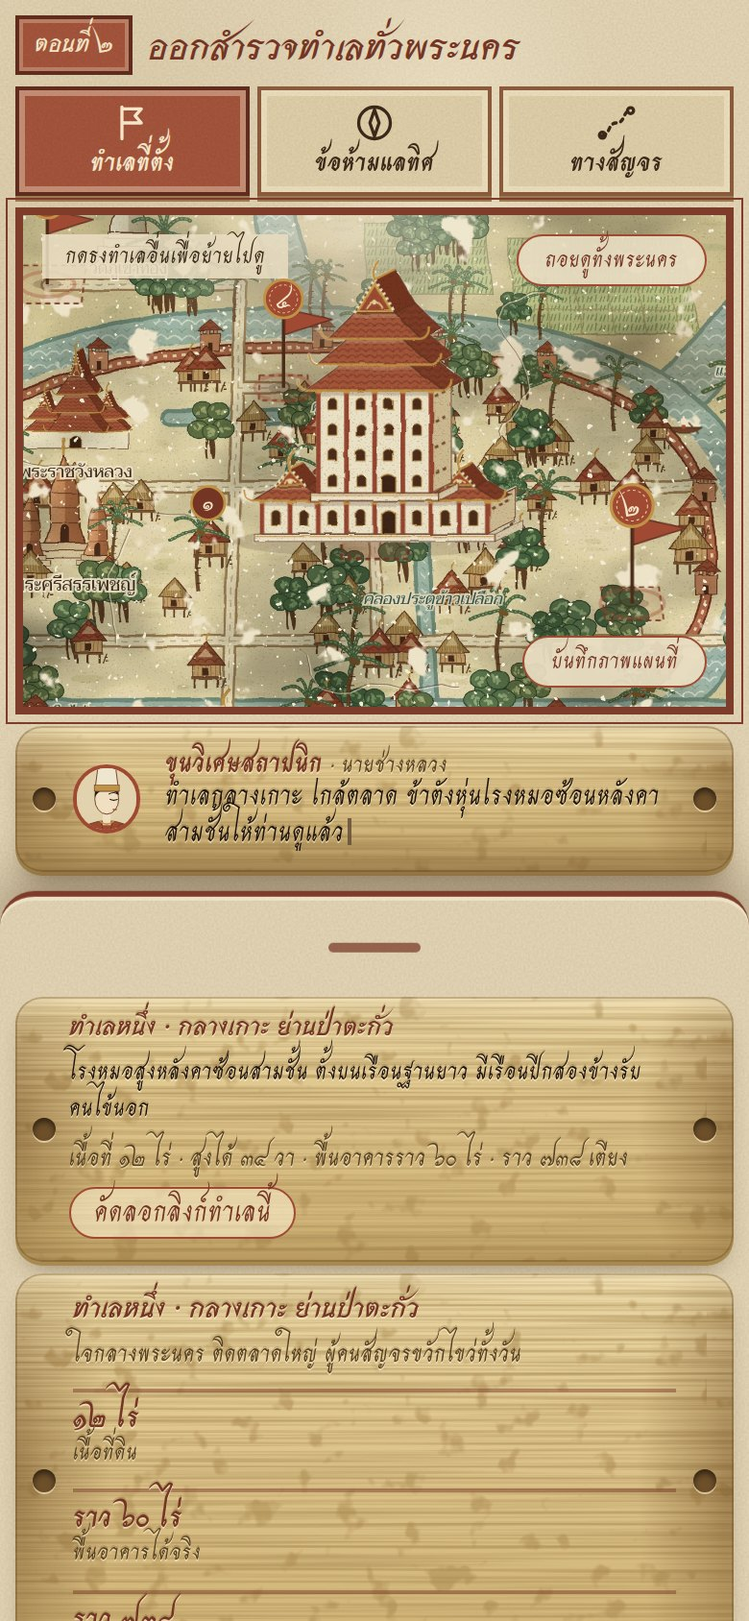
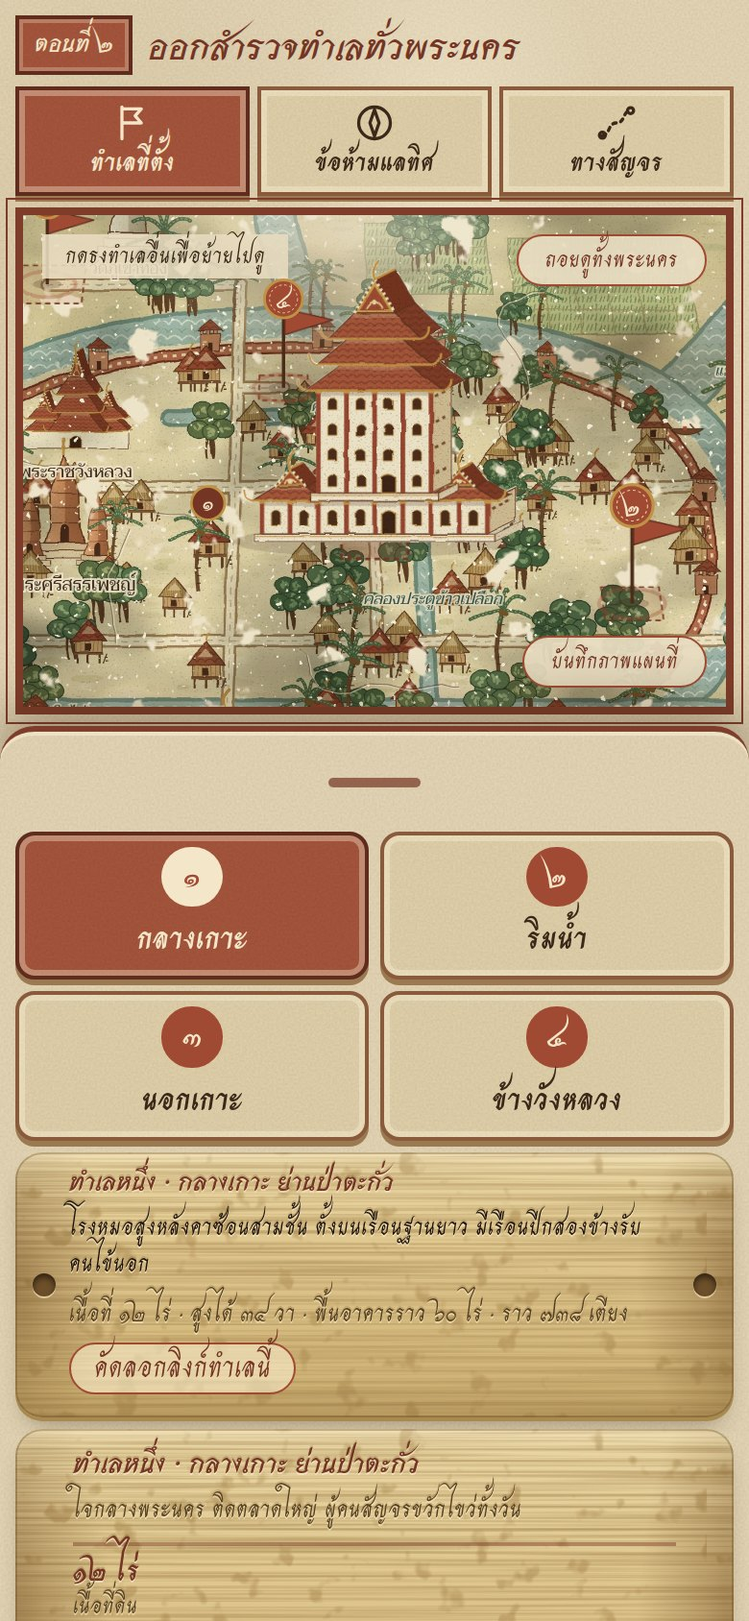
feat(p4): step 1 complete — phone peek sheet, score bars, layout test at 7 sizes
- closed sheet = four site buttons filling the space under the narrator; tap = flag tap
- half sheet ends under the map, so the whole map and the selected site stay visible
- comparison table: score bar per site, top-scoring site(s) highlighted; fits at 1366x768
- deep link keeps the map section aligned while the page settles
- Playwright layout test at 1920x1080, 1366x768, 1280x720, 768x1024, 390x844, 375x667, 844x390

Claude-Session: https://claude.ai/code/session_017J4fxwPJmxPxBtpiPuimFk

diff --git a/tests/layout.spec.ts b/tests/layout.spec.ts
@@ -1,0 +1,150 @@
+import { test, expect, type Page } from '@playwright/test'
+
+const SIZES: [number, number][] = [[1920, 1080], [1366, 768], [1280, 720], [768, 1024], [390, 844], [375, 667], [844, 390]]
+const DESIGNATED = '.sheet-body, .pages, .page, .scroll, .diag, #side'
+
+async function ready(page: Page) {
+  await expect(page.locator('#loading')).toBeHidden({ timeout: 30000 })
+  await page.waitForTimeout(600)
+}
+/** wait until smooth scrolling and snapping have stopped */
+async function settle(page: Page) {
+  let last = -1
+  for (let i = 0; i < 40; i++) {
+    const y = await page.evaluate(() => scrollY)
+    if (y === last) return
+    last = y
+    await page.waitForTimeout(200)
+  }
+}
+const toSection = async (page: Page, sel: string) => {
+  await page.evaluate(s => (document.querySelector(s) as HTMLElement).scrollIntoView({ behavior: 'instant' }), sel)
+  await settle(page)
+}
+const rect = (page: Page, sel: string) => page.locator(sel).first().evaluate(e => { const r = e.getBoundingClientRect(); return { top: r.top, left: r.left, right: r.right, bottom: r.bottom } })
+async function inside(page: Page, sel: string, label = sel) {
+  const r = await rect(page, sel), vw = page.viewportSize()!.width, vh = page.viewportSize()!.height
+  expect(r.top, `${label} top`).toBeGreaterThanOrEqual(-1)
+  expect(r.left, `${label} left`).toBeGreaterThanOrEqual(-1)
+  expect(r.right, `${label} right`).toBeLessThanOrEqual(vw + 1)
+  expect(r.bottom, `${label} bottom`).toBeLessThanOrEqual(vh + 1)
+}
+
+for (const [w, h] of SIZES) {
+  const phone = w < 900
+  const portrait = h > w
+  test.describe(`${w}×${h}`, () => {
+    test.use({ viewport: { width: w, height: h }, isMobile: phone, hasTouch: phone })
+
+    test('every section fits one screen; the map is fully visible; nothing scrolls except the designated panels', async ({ page }) => {
+      await page.goto('/'); await ready(page)
+
+      // section heights, no horizontal page scroll
+      const heights = await page.locator('.screen').evaluateAll(els => els.map(e => e.getBoundingClientRect().height))
+      expect(heights).toHaveLength(4)
+      for (const hh of heights) expect(hh).toBeLessThanOrEqual(h + 1)
+      expect(await page.evaluate(() => document.documentElement.scrollWidth <= document.documentElement.clientWidth)).toBe(true)
+
+      // hero
+      await toSection(page, '.hero')
+      await inside(page, '.hero-t'); await inside(page, '.hero .frame')
+
+      // chapter 1: the scene and both lines are on screen
+      await toSection(page, '.s1')
+      await inside(page, '.s1 .frame'); await inside(page, '.duo .leaf:first-child'); await inside(page, '.duo .leaf:last-child')
+
+      // chapter 2: tabs, the whole map and the narrator
+      await toSection(page, '#mapsec')
+      await inside(page, '.tabs'); await inside(page, '#mapbox'); await inside(page, '#narr')
+      await page.locator('.site[data-site="A"]').first().dispatchEvent('click')
+      await page.waitForTimeout(1500)
+      await inside(page, '#mapbox')
+      if (!portrait) await inside(page, '#cap') // the caption stays inside the map frame
+      if (!portrait) {
+        const [c, m] = await Promise.all([rect(page, '#cap'), rect(page, '#mapbox')])
+        expect(c.left).toBeGreaterThanOrEqual(m.left - 1); expect(c.right).toBeLessThanOrEqual(m.right + 1)
+        expect(c.top).toBeGreaterThanOrEqual(m.top - 1); expect(c.bottom).toBeLessThanOrEqual(m.bottom + 1)
+      }
+
+      // chapter 3: tabs/dots and the first page
+      await toSection(page, '.s3')
+      await inside(page, '.s3 .top'); await inside(page, '.page[data-page="0"] .leaf')
+      // on desktop-sized screens the whole comparison table fits without sideways scrolling
+      if (w >= 1280) expect(await page.locator('.page[data-page="0"] .scroll').evaluate(e => e.scrollWidth <= e.clientWidth + 1)).toBe(true)
+      for (const i of [1, 2, 3]) {
+        await page.evaluate(n => document.querySelectorAll<HTMLElement>('.page')[n].scrollIntoView({ behavior: 'instant', inline: 'start', block: 'nearest' }), i)
+        await page.waitForTimeout(150)
+        await inside(page, `.page[data-page="${i}"] .leaf`)
+      }
+
+      // nothing scrolls except the designated panels (the page itself scrolls vertically, section by section)
+      const rogue = await page.evaluate(sel => {
+        const bad: string[] = []
+        for (const e of Array.from(document.querySelectorAll<HTMLElement>('body *'))) {
+          if (e.closest(sel)) continue
+          const cs = getComputedStyle(e)
+          if (!/(auto|scroll)/.test(cs.overflowX + cs.overflowY)) continue
+          if (e.scrollHeight > e.clientHeight + 1 || e.scrollWidth > e.clientWidth + 1) bad.push(e.tagName + '.' + e.className)
+        }
+        return bad
+      }, DESIGNATED)
+      expect(rogue).toEqual([])
+
+      // no leaf spills over its own box (text is never cut off inside a leaf outside the scrolling panels)
+      const spill = await page.evaluate(sel => Array.from(document.querySelectorAll<HTMLElement>('.leaf')).filter(l => !l.closest(sel) && l.offsetParent !== null && (l.scrollHeight > l.clientHeight + 2 || l.scrollWidth > l.clientWidth + 2)).map(l => l.className + ':' + (l.textContent ?? '').slice(0, 20)), DESIGNATED)
+      expect(spill).toEqual([])
+    })
+
+    test('a deep link scrolls to the map and fits it on screen', async ({ page }) => {
+      await page.goto('/#site-A'); await ready(page); await settle(page)
+      await expect.poll(async () => Math.abs((await rect(page, '#mapsec')).top), { timeout: 8000 }).toBeLessThanOrEqual(2)
+      await inside(page, '#mapbox')
+      await expect(page.locator('#zoomOut')).toBeVisible()
+    })
+
+    if (portrait && phone) {
+      test('sheet: closed shows the four site buttons; half keeps the selected site visible above the sheet', async ({ page }) => {
+        await page.goto('/'); await ready(page); await toSection(page, '#mapsec')
+        // closed (peek): four buttons, all on screen, filling the space under the narrator
+        await expect(page.locator('#side')).toHaveAttribute('data-pos', 'closed')
+        const btns = await page.locator('.peekbtn').evaluateAll(els => els.map(e => { const r = e.getBoundingClientRect(); return [r.top, r.bottom, r.left, r.right] }))
+        expect(btns).toHaveLength(4)
+        const narrB = (await rect(page, '#narr')).bottom
+        for (const [t, b, l, r] of btns) { expect(t).toBeGreaterThan(narrB); expect(b).toBeLessThanOrEqual(h); expect(l).toBeGreaterThanOrEqual(0); expect(r).toBeLessThanOrEqual(w) }
+
+        // tapping a button selects the site exactly like its flag
+        await page.locator('.peekbtn[data-peek="C"]').tap()
+        expect(await page.evaluate(() => location.hash)).toBe('#site-C')
+        await expect(page.locator('#side')).toHaveAttribute('data-pos', 'half')
+        await page.waitForTimeout(1800)
+
+        // half: the whole map is above the sheet and the selected site's marker and model are inside it
+        const sheetTop = (await rect(page, '#side')).top
+        const map = await rect(page, '#mapbox')
+        expect(map.bottom).toBeLessThanOrEqual(sheetTop + 1)
+        for (const sel of ['#bbs [data-site="C"]', '#bbs .pop']) {
+          const r = await rect(page, sel)
+          expect(r.top, sel).toBeGreaterThanOrEqual(map.top - 1); expect(r.bottom, sel).toBeLessThanOrEqual(Math.min(map.bottom, sheetTop) + 1)
+          expect(r.left, sel).toBeGreaterThanOrEqual(map.left - 1); expect(r.right, sel).toBeLessThanOrEqual(map.right + 1)
+        }
+        // the caption (with the copy button) sits in the sheet
+        await expect(page.locator('#side #cap')).toBeVisible()
+      })
+
+      test('sheet: drag the handle through half and full, and back to closed', async ({ page }) => {
+        await page.goto('/'); await ready(page); await toSection(page, '#mapsec')
+        const handle = (await rect(page, '#sheetHandle'))
+        const x = (handle.left + handle.right) / 2, y = (handle.top + handle.bottom) / 2
+        const drag = async (dy: number) => { await page.mouse.move(x, y); await page.mouse.down(); await page.mouse.move(x, y + dy / 2, { steps: 4 }); await page.mouse.move(x, y + dy, { steps: 4 }); await page.mouse.up(); await page.waitForTimeout(500) }
+        await drag(-(h * 0.9))
+        await expect(page.locator('#side')).toHaveAttribute('data-pos', 'full')
+        const h2 = await rect(page, '#sheetHandle')
+        await page.mouse.move((h2.left + h2.right) / 2, (h2.top + h2.bottom) / 2); await page.mouse.down()
+        await page.mouse.move((h2.left + h2.right) / 2, h, { steps: 8 }); await page.mouse.up(); await page.waitForTimeout(500)
+        await expect(page.locator('#side')).toHaveAttribute('data-pos', 'closed')
+        await page.locator('#sheetHandle').click()
+        await expect(page.locator('#side')).toHaveAttribute('data-pos', 'half')
+      })
+    }
+  })
+}

diff --git a/src/styles/layout.css b/src/styles/layout.css
@@ -31,9 +31,9 @@ body{margin:0;overflow-x:clip}
 .pt{width:var(--pt);height:var(--pt);flex:none}
 .narr,.line,.narr2{grid-template-columns:var(--pt) minmax(0,1fr)}
 .narr2{display:grid;gap:12px;align-items:center}
-.tbl{font-size:clamp(12.5px,2.4vmin,26px)}
-.tbl td,.tbl th{padding:clamp(4px,1.4vmin,20px) clamp(5px,1vmin,12px)}
-.tag{font-size:clamp(11.5px,1.7vmin,18px)}
+.tbl{font-size:clamp(12.5px,1.95vmin,24px)}
+.tbl td,.tbl th{padding:clamp(4px,1.2vmin,18px) clamp(4px,.8vmin,12px)}
+.tag{font-size:clamp(11px,1.5vmin,17px)}
 .bar{grid-template-columns:clamp(84px,14vmin,120px) minmax(0,1fr) 40px;font-size:clamp(13px,1.85vmin,16px)}
 .mode b{font-size:clamp(14px,2vmin,17px)}.mode small{font-size:clamp(12px,1.7vmin,14px)}
 .sitepick button{font-size:clamp(14px,2vmin,17px)}
@@ -98,7 +98,7 @@ h1{font-size:clamp(24px,min(5.2vw,9vh),64px);margin:2px 0 clamp(4px,1.2vh,10px)}
 .page .duo{flex-direction:row;align-items:stretch}
 .page .duo>.leaf{flex:1 1 0}
 .cmp{min-width:max(100%,640px)}
-.cmp td:first-child,.cmp th:first-child{min-width:clamp(120px,18vmin,170px)}
+.cmp td:first-child,.cmp th:first-child{min-width:clamp(110px,16vmin,190px)}
 .colophon{max-width:min(720px,100%)}
 .note{font-size:clamp(11.5px,1.7vmin,13.5px);margin-top:0}
 .dots{display:none;justify-content:center;gap:12px}
@@ -167,3 +167,23 @@ h1{font-size:clamp(24px,min(5.2vw,9vh),64px);margin:2px 0 clamp(4px,1.2vh,10px)}
   .soon{grid-template-columns:minmax(0,1fr)}
 }
 
+
+/* ---------- comparison ledger: score bars, best site highlighted ---------- */
+.sbar{display:inline-block;width:clamp(34px,5.4vmin,96px);height:.55em;background:rgba(90,58,20,.2);border-radius:5px;overflow:hidden;vertical-align:middle;margin-right:.5em}
+.sbar i{display:block;height:100%;background:var(--red);border-radius:5px}
+.cmp tr.best .sbar i{background:var(--ok)}
+.cmp tr.best td:first-child{box-shadow:inset 4px 0 0 var(--gold)}
+.cmp td.score{white-space:nowrap}
+
+/* ---------- phone peek: the four site buttons under the narrator ---------- */
+.peek{display:none}
+@media (orientation:portrait){
+  .peek{display:grid;grid-template-columns:repeat(2,minmax(0,1fr));grid-auto-rows:minmax(56px,1fr);align-content:start;gap:var(--gap);margin:0 0 var(--gap)}
+  .side[data-pos="closed"] .peek{height:var(--peekH,auto)}
+  .side[data-pos="closed"] .sheet-body{overflow:hidden}
+  .peekbtn{display:flex;flex-direction:column;align-items:center;justify-content:center;gap:4px;max-height:140px;padding:6px;font-family:var(--f-leaf);font-size:clamp(15px,4.2vw,19px);color:var(--ink);
+    background-color:#e2d3ad;background-image:var(--tx-plaster);border:2px solid #8a5a3c;border-radius:10px;box-shadow:inset 0 0 0 3px rgba(255,246,222,.35),0 3px 0 #9b7a52}
+  .peekbtn .s{display:grid;place-items:center;width:clamp(30px,8vw,40px);height:clamp(30px,8vw,40px);border-radius:50%;background:var(--red);color:#f4e6c8;font-family:var(--f-display);font-weight:700;font-size:clamp(16px,4.4vw,22px)}
+  .peekbtn[aria-pressed="true"]{background-color:var(--red);border-color:#5f2c1e;color:#f4e6c8}
+  .peekbtn[aria-pressed="true"] .s{background:#f4e6c8;color:var(--red)}
+}

diff --git a/src/ui/sheet.ts b/src/ui/sheet.ts
@@ -13,31 +13,43 @@ export function initSheet() {
   const side = document.getElementById('side') as HTMLElement
   const handle = document.getElementById('sheetHandle') as HTMLButtonElement
   const body = document.getElementById('sheetBody') as HTMLElement
+  const panel = document.getElementById('panel') as HTMLElement
   const narr = document.getElementById('narr') as HTMLElement
   const sec = document.getElementById('mapsec') as HTMLElement
   const cap = document.getElementById('cap') as HTMLElement
   const mapbox = document.getElementById('mapbox') as HTMLElement
 
-  /** translateY (px) of the sheet for each position; the sheet is `height` tall and anchored at the bottom */
-  const stops = () => {
-    const H = side.offsetHeight, hh = handle.offsetHeight || 52
-    const under = narr.getBoundingClientRect().bottom - sec.getBoundingClientRect().top // free space under the narrator
-    const half = Math.min(innerHeight * 0.62, Math.max(170, innerHeight - under - 10))
-    return { closed: H - hh, half: H - half, full: 0 }
+  /**
+   * translateY (px) of the sheet for each position; the sheet is `height` tall and anchored at the bottom.
+   *  closed = "peek": it fills the space under the narrator with the four site buttons
+   *  half   = its top edge sits just under the map (the whole map stays visible above it)
+   *  full   = almost the whole screen
+   */
+  const geometry = () => {
+    const H = side.offsetHeight, secTop = sec.getBoundingClientRect().top
+    const narrBottom = narr.getBoundingClientRect().bottom - secTop
+    const mapBottom = mapbox.getBoundingClientRect().bottom - secTop
+    const peek = Math.max(130, innerHeight - narrBottom - 8)
+    const half = Math.min(innerHeight * 0.72, Math.max(peek + 40, innerHeight - mapBottom - 6))
+    return { H, peek, stops: { closed: H - peek, half: H - half, full: 0 } as Record<Pos, number> }
   }
+  const stops = () => geometry().stops
   const apply = (p: Pos, animate = true) => {
     pos = p
+    const g = geometry()
     side.classList.toggle('dragging', !animate)
-    side.style.setProperty('--sheet-y', `${stops()[p]}px`)
+    side.dataset.pos = p
+    side.style.setProperty('--sheet-y', `${g.stops[p]}px`)
+    side.style.setProperty('--peekH', `${g.peek - (handle.offsetHeight || 52) - 16}px`)
     handle.setAttribute('aria-expanded', String(p !== 'closed'))
-    body.inert = p === 'closed'
+    cap.inert = panel.inert = p === 'closed' // only the site buttons are reachable while peeking
   }
 
   applyFn = apply
   const place = () => {
-    if (portrait.matches) body.insertBefore(cap, body.firstChild)
+    if (portrait.matches) body.insertBefore(cap, panel)
     else mapbox.appendChild(cap)
-    if (portrait.matches) apply(pos); else { side.style.removeProperty('--sheet-y'); body.inert = false }
+    if (portrait.matches) apply(pos); else { side.style.removeProperty('--sheet-y'); cap.inert = panel.inert = false }
   }
   portrait.addEventListener('change', place)
   const relayout = () => { if (portrait.matches) apply(pos, false) }

diff --git a/src/state/render.ts b/src/state/render.ts
@@ -7,6 +7,7 @@ import { renderCap } from '../ui/caption'
 import { renderCompare } from '../scenes/summary'
 import { speak } from '../ui/narrator'
 import { sheetFor } from '../ui/sheet'
+import { renderPeek } from '../ui/peek'
 import { RM } from '../render/util'
 import { S } from '../data/strings.th'
 import type { Mode } from './store'
@@ -18,13 +19,31 @@ function syncUrl(){
   const h=formatHash({mode:st.mode,site:st.site});
   if(h!==location.hash)history.pushState(null,'',h||location.pathname+location.search);
 }
+/**
+ * A deep link opens on the map. While the page is still settling (fonts, the browser's own toolbar, first resize)
+ * keep the map section aligned to the top, unless the reader has started to scroll.
+ */
+function holdMapInView(){
+  const sec=document.getElementById('mapsec') as HTMLElement;
+  let live=true;
+  const align=()=>{if(live)sec.scrollIntoView({behavior:'instant',block:'start'})};
+  const stop=()=>{live=false};
+  for(const e of ['wheel','touchstart','keydown','pointerdown'])addEventListener(e,stop,{once:true,passive:true});
+  align();
+  document.fonts?.ready.then(align);
+  addEventListener('resize',align);
+  // stay aligned until the page has been loaded for a few seconds (a slow device may take longer than that to load)
+  const end=()=>setTimeout(()=>{live=false;removeEventListener('resize',align)},4000);
+  if(document.readyState==='complete')end();else addEventListener('load',()=>{align();end()},{once:true});
+}
+
 /** Restore the view from the address bar (deep link, back/forward). */
 function applyUrl(initial:boolean){
   const v=parseHash(location.hash,Object.keys(SITES))??{mode:'site' as Mode,site:null};
   if(initial?v.site===null:(v.mode===st.mode&&v.site===st.site))return;
   fromUrl=true;
   try{st.mode=v.mode;st.site=v.site;st.zone=null;render(initial?'restore':v.mode!=='site'?'tab':v.site?'site':'out')
-    if(v.site)document.getElementById('mapsec')?.scrollIntoView({behavior:initial||RM?'instant':'smooth',block:'start'})}
+    if(v.site){if(initial)holdMapInView();else document.getElementById('mapsec')?.scrollIntoView({behavior:RM?'instant':'smooth',block:'start'})}}
   finally{fromUrl=false}
 }
 export function startUrlSync(){
@@ -39,7 +58,7 @@ zoomBtn.onclick=()=>{st.site=null;render('out')};
 setRenderer((ev?:string)=>{
   if(st.mode!=='site'&&!st.site)st.site=Object.keys(SITES)[0];
   document.querySelectorAll<HTMLElement>('.tab').forEach(t=>t.setAttribute('aria-selected',String(t.dataset.mode===st.mode)));
-  drawDynamic();renderPanel();renderCap();renderCompare();
+  drawDynamic();renderPanel();renderCap();renderCompare();renderPeek();
   const zoomed=st.mode==='site'&&!!st.site;zoomBtn.hidden=!zoomed;
   if(ev)zoomTo(zoomed?siteBox(st.site as string):[0,0,1000,700],ev==='zone'||ev==='zoneclose'||ev==='restore'?0:1000);
   if(ev&&!fromUrl&&ev!=='restore')syncUrl();

diff --git a/src/scenes/summary.ts b/src/scenes/summary.ts
@@ -8,9 +8,10 @@ import { S } from '../data/strings.th'
 export function renderCompare(){
   const H=S.cmp.head;
   const head=`<tr><th>${H.site}</th><th class="n">${H.land}</th><th class="n">${H.gfa}</th><th class="n">${H.beds}</th><th class="n">${H.height}</th><th class="n">${H.horse}</th><th class="n">${H.boat}</th><th>${H.front}</th><th>${H.issue}</th><th class="n">${H.score}</th></tr>`;
-  const max=CRIT_IDS.length*5;
+  const max=CRIT_IDS.length*5;const topScore=Math.max(...Object.values(SITES).map(total));
   const rows=Object.entries(SITES).map(([k,s])=>{const r=s.rules;const f=r.flags.find(x=>x[0]==='risk')||r.flags[0];
-    return `<tr data-site="${k}" class="${k===st.site?'on':''}"><td><b style="font-family:var(--f-display);color:var(--red-dk)">${th(s.n)}</b> ${E(s.name)}</td><td class="n">${areaTxt(s.land_m2)}</td><td class="n">${areaTxt(r.gfa_m2)}</td><td class="n">${fmt(beds(s))}</td><td class="n">${waTxt(r.maxHeight_m)}</td><td class="n">${bahtTxt(travel(k,'horse').baht)}</td><td class="n">${bahtTxt(travel(k,'boat').baht)}</td><td><span class="tag ${s.astro.good?'ok':'risk'}">${s.astro.front}</span></td><td>${f?`<span class="tag ${f[0]}">${P(f[1],s)}</span>`:''}</td><td class="n"><b style="color:var(--red-dk)">${th(total(s))}</b>/${th(max)}</td></tr>`}).join('');
+    const sc=total(s),best=sc===topScore;
+    return `<tr data-site="${k}" class="${k===st.site?'on':''}${best?' best':''}"><td><b style="font-family:var(--f-display);color:var(--red-dk)">${th(s.n)}</b> ${E(s.name)}${best?` <span class="tag ok">${S.cmp.best}</span>`:''}</td><td class="n">${areaTxt(s.land_m2)}</td><td class="n">${areaTxt(r.gfa_m2)}</td><td class="n">${fmt(beds(s))}</td><td class="n">${waTxt(r.maxHeight_m)}</td><td class="n">${bahtTxt(travel(k,'horse').baht)}</td><td class="n">${bahtTxt(travel(k,'boat').baht)}</td><td><span class="tag ${s.astro.good?'ok':'risk'}">${s.astro.front}</span></td><td>${f?`<span class="tag ${f[0]}">${P(f[1],s)}</span>`:''}</td><td class="n score"><span class="sbar" aria-hidden="true"><i style="width:${sc/max*100}%"></i></span><b style="color:var(--red-dk)">${th(sc)}</b>/${th(max)}</td></tr>`}).join('');
   const t=document.getElementById('cmp') as HTMLElement;t.innerHTML=head+rows;
   t.querySelectorAll<HTMLElement>('tr[data-site]').forEach(tr=>tr.addEventListener('click',()=>{st.site=tr.dataset.site??null;st.mode='site';render('site');document.getElementById('mapsec')?.scrollIntoView({behavior:RM?'auto':'smooth'})}))}
 

diff --git a/src/data/strings.th.ts b/src/data/strings.th.ts
@@ -41,7 +41,7 @@ export const S = {
     cmp: 'บัญชีเทียบ', opin: 'ความเห็น', end: 'มติที่ประชุม', colophon: 'จบความ',
     dot: (n: string) => `หน้า ${n}`,
   },
-  sheet: { toggle: 'เปิดปิดแผ่นรายละเอียด' },
+  sheet: { toggle: 'เปิดปิดแผ่นรายละเอียด', pick: 'เลือกทำเล' },
   chapter: (n: number) => `ตอนที่ ${n}`,
   ch1: { title: 'ปรารภสร้างโรงหมอ', sub: 'ณ ศาลาโรงหมอเก่าข้างวัด คนเจ็บนอนล้นถึงชายคา', aria: 'ภาพจิตรกรรม ขุนช่างกับหมอหลวงปรึกษาสร้างโรงหมอ' },
   ch2: { title: 'ออกสำรวจทำเลทั่วพระนคร', sub: 'กดธงชาดเลือกทำเล แลสลับดูข้อห้ามกับทางสัญจร' },
@@ -142,6 +142,7 @@ export const S = {
     speeds: (list: string) => `ความเร็วสมมุติ ${list} เส้นต่อบาท`,
   },
   cmp: {
+    best: 'สูงสุด',
     title: (count: string) => `บัญชีเทียบ${count}ทำเล`,
     hint: 'กดแถวเพื่อกลับไปดูทำเลนั้นบนแผนที่',
     head: {

diff --git a/src/scenes/map-live.ts b/src/scenes/map-live.ts
@@ -54,10 +54,14 @@ export function drawDynamic(){
   (document.getElementById('tokens') as HTMLElement).innerHTML=tokens.map(t=>`<g id="tk-${t.k}"><g filter="url(#lite)">${VEH[t.k]}</g></g>`).join('');
   tokens.forEach(t=>t.el=document.getElementById('tk-'+t.k));
 }
+/** Flag tap (also used by the phone's site buttons): select the site, or go back to the whole city if it is already shown. */
+export function selectSite(k:string){
+  if(st.mode==='site'&&st.site===k){st.site=null;render('out')}else{st.site=k;st.zone=null;render('site')}
+}
 export function bindMap(){
 map.addEventListener('click',e=>{const sEl=(e.target as Element).closest<HTMLElement>('[data-site]'),zEl=(e.target as Element).closest<HTMLElement>('[data-zone]');
   if(zEl){st.zone=st.zone===zEl.dataset.zone?null:(zEl.dataset.zone??null);render('zone');return}
-  if(sEl){const k=sEl.dataset.site??null;if(st.mode==='site'&&st.site===k){st.site=null;render('out')}else{st.site=k;st.zone=null;render('site')}}});
+  if(sEl&&sEl.dataset.site)selectSite(sEl.dataset.site)});
 map.addEventListener('keydown',e=>{if(e.key!=='Enter'&&e.key!==' ')return;const t=(e.target as Element).closest<HTMLElement>('[data-site],[data-zone]');if(t){e.preventDefault();t.dispatchEvent(new MouseEvent('click',{bubbles:true}))}});
 }
 export function tick(now:number){const t=now/1000;

diff --git a/src/ui/peek.ts b/src/ui/peek.ts
@@ -1,0 +1,18 @@
+import { SITES, E } from '../data/content'
+import { st } from '../state/store'
+import { selectSite } from '../scenes/map-live'
+import { th } from '../data/units'
+
+/** Phone portrait, sheet closed: the four site buttons fill the space under the narrator. A tap acts like the flag. */
+export function renderPeek() {
+  const el = document.getElementById('peek') as HTMLElement
+  el.innerHTML = Object.entries(SITES).map(([k, s]) =>
+    `<button type="button" class="peekbtn" data-peek="${E(k)}" aria-pressed="${st.site === k}"><span class="s">${th(s.n)}</span><b>${E(s.short)}</b></button>`).join('')
+}
+
+export function initPeek() {
+  (document.getElementById('peek') as HTMLElement).addEventListener('click', e => {
+    const b = (e.target as Element).closest<HTMLElement>('[data-peek]')
+    if (b?.dataset.peek) selectSite(b.dataset.peek)
+  })
+}

diff --git a/playwright.config.ts b/playwright.config.ts
@@ -2,7 +2,7 @@ import { defineConfig } from '@playwright/test'
 import { existsSync } from 'node:fs'
 const exe = ['/opt/pw-browsers/chromium-1194/chrome-linux/chrome'].find(existsSync)
 export default defineConfig({
-  testDir: 'tests', testMatch: /.*\.spec\.ts/, timeout: 60000,
+  testDir: 'tests', testMatch: /.*\.spec\.ts/, timeout: 90000, fullyParallel: true, workers: 3,
   webServer: { command: 'npm run build && npx vite preview --port 4173 --strictPort', url: 'http://localhost:4173', reuseExistingServer: true, timeout: 120000 },
   use: { baseURL: 'http://localhost:4173', viewport: { width: 1280, height: 900 }, launchOptions: { executablePath: exe, args: ['--no-sandbox'] } },
 })

diff --git a/index.html b/index.html
@@ -61,7 +61,7 @@
       <div class="leaf narr" id="narr"><div class="pt" id="nPt"></div><div><div class="who" id="nWho"></div><div class="say" id="say"></div></div></div>
       <aside class="side" id="side">
         <button class="sheet-handle" id="sheetHandle" type="button" aria-expanded="false" aria-controls="sheetBody"><span class="grip" aria-hidden="true"></span><span class="sr-only" data-t="sheet.toggle"></span></button>
-        <div class="sheet-body" id="sheetBody"><div id="panel"></div></div>
+        <div class="sheet-body" id="sheetBody"><div class="peek" id="peek"></div><div id="panel"></div></div>
       </aside>
     </div>
   </section>

diff --git a/src/main.ts b/src/main.ts
@@ -20,6 +20,7 @@ import { render } from './state/store'
 import { speak } from './ui/narrator'
 import { initPager } from './ui/pager'
 import { initSheet } from './ui/sheet'
+import { initPeek } from './ui/peek'
 import { initExport } from './ui/export'
 
 async function boot() {
@@ -40,6 +41,7 @@ async function boot() {
   setSpeaker(0); if (!RM) setInterval(nextSpeaker, 5000)
   requestAnimationFrame(tick)
   initPager()
+  initPeek()
   initSheet()
   startUrlSync() // after the sheet exists: a deep link opens it
   initExport()
